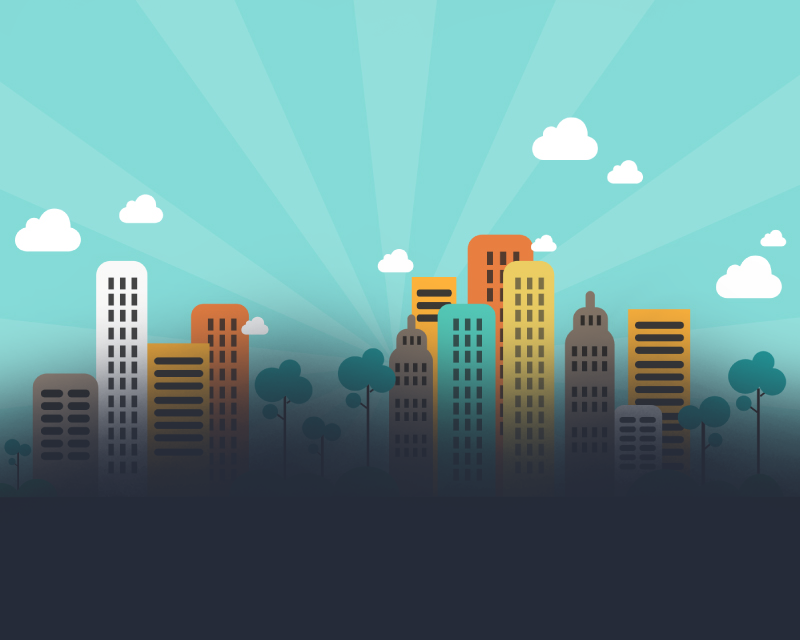
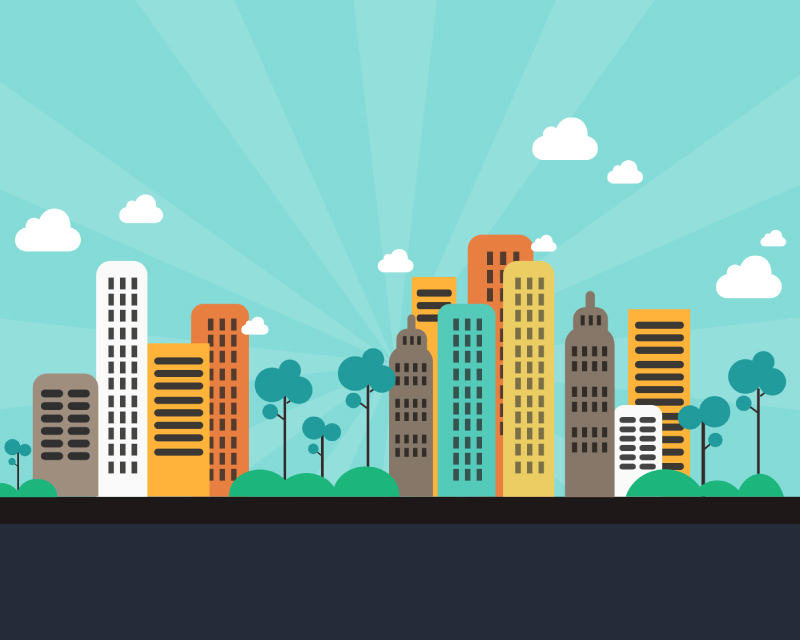
update css
부분부분 css 수정

Changed region(s): [[0.0, 0.4688, 1.0, 0.8438]]

diff --git a/ebbing/Main/Words/RegisterWords.js b/ebbing/Main/Words/RegisterWords.js
@@ -214,7 +214,7 @@ export default class RegisterWords extends React.Component {
         </View>
         <View style={styles.inputWordView}>
           <TextInput
-            style={styles.inputWord}
+            style={[styles.inputWord, styles.inputWordEng]}
             placeholder="Input English"
             onChangeText={(word_eng) => this.setState({ word_eng })}
             onKeyPress={this.inputEnter()}
@@ -222,7 +222,7 @@ export default class RegisterWords extends React.Component {
             ref={this.textInput}
           ></TextInput>
           <TextInput
-            style={styles.inputWord}
+            style={[styles.inputWord, styles.inputWordkor]}
             placeholder="Input Korean"
             onChangeText={(word_kor) => this.setState({ word_kor })}
             onKeyPress={this.inputEnter()}
@@ -269,7 +269,7 @@ export default class RegisterWords extends React.Component {
             </View>
           </View>
         ) : (
-          <View style={styles.wordListView}>
+          <View style={[styles.wordListView, styles.listBox]}>
             <Text style={[styles.wordListView, styles.noRegisteredWord]}>
               현재 등록된 단어가 없습니다.
             </Text>
@@ -318,8 +318,9 @@ const styles = StyleSheet.create({
   headerTitleText: {
     color: '#fff',
     width: standardWidth,
-    textAlign: "center",
+    textAlign: 'center',
     fontSize: 20,
+    fontWeight: 'bold',
   },
   inputWordView: {
     width: standardWidth,
@@ -333,11 +334,20 @@ const styles = StyleSheet.create({
     borderWidth: 1,
     borderStyle: 'solid',
   },
+  inputWordEng: {
+    borderTopLeftRadius: 10,
+    borderTopRightRadius: 10,
+  },
+  inputWordkor: {
+    borderBottomLeftRadius: 10,
+    borderBottomRightRadius: 10,
+  },
   registButtonView: {
     flexDirection: 'row',
     justifyContent: 'center',
     width: standardWidth,
     marginTop: 15,
+    borderRadius: 10,
   },
   registButton: {
     backgroundColor: '#fff',
@@ -345,7 +355,7 @@ const styles = StyleSheet.create({
     height: height * 0.07,
     alignItems: 'center',
     justifyContent: 'center',
-    borderRadius: 15,
+    borderRadius: 10,
     backgroundColor: '#99D7ED',
   },
   wordListView: {
@@ -355,11 +365,10 @@ const styles = StyleSheet.create({
   },
   noRegisteredWord: {
     backgroundColor: '#fff',
-    alignItems: 'center',
-    justifyContent: 'center',
-    fontSize: 30,
+    color: '#333',
+    fontSize: 20,
     textAlign: 'center',
-    textAlignVertical: 'center',
+    paddingTop: '5%',
   },
   wordListFlat: {
     backgroundColor: '#fff',
@@ -373,7 +382,7 @@ const styles = StyleSheet.create({
   wordListBtn: {
     flexDirection: 'row',
     backgroundColor: '#fff',
-    borderRadius: 10,
+    borderRadius: 5,
     width: standardWidth / 2 - 10,
     height: 40,
     alignItems: 'center',

diff --git a/ebbing/Main/Main.js b/ebbing/Main/Main.js
@@ -22,13 +22,13 @@ export default class Main extends React.Component {
       <View style={styles.container}>
         <Image
           style={{ width: width, height: 240, opacity: 1 }}
-          source={require('../assets/main_bg.png')}
+          source={require('../assets/main_bg2.png')}
         />
         <View style={styles.boxSpace}>
           <TouchableOpacity
             onPress={() => navigation.navigate('PriorityWords')}
           >
-            <View style={styles.categoryView}>
+            <View style={[styles.categoryView, { backgroundColor: '#8bcdcd' }]}>
               <Image
                 style={{ width: 80, height: 80 }}
                 source={require('../assets/ellipse1.png')}
@@ -37,7 +37,7 @@ export default class Main extends React.Component {
             </View>
           </TouchableOpacity>
           <TouchableOpacity onPress={() => navigation.navigate('MineWords')}>
-            <View style={styles.categoryView}>
+            <View style={[styles.categoryView, { backgroundColor: '#a3d2ca' }]}>
               <Image
                 style={{ width: 80, height: 80 }}
                 source={require('../assets/ellipse2.png')}
@@ -64,20 +64,19 @@ const styles = StyleSheet.create({
     marginVertical: 20,
     backgroundColor: '#99D7ED',
     width: width,
-    height: 180,
-    justifyContent: 'space-evenly',
+    height: 160,
+    justifyContent: 'center',
     alignItems: 'center',
     flexDirection: 'row',
-    borderWidth: 0.5,
-    borderColor: '#6190E8',
     borderRadius: 15,
   },
   categoryText: {
+    marginLeft: '5%',
     fontSize: 20,
     color: '#fff',
   },
   boxSpace: {
-    justifyContent: 'space-evenly',
+    justifyContent: 'center',
     height: height * 0.65,
   },
 });

diff --git a/ebbing/Main/Words/MineWords.js b/ebbing/Main/Words/MineWords.js
@@ -212,7 +212,10 @@ export default class MineWords extends Component {
         ) : (
           <View style={styles.box}>
             <Text>현재 등록된 단어가 없습니다.</Text>
-            <Text><AntDesign name="pluscircleo" color={'#000'} size={15} /> 버튼을 눌러서 단어를 등록해 주세요.</Text>
+            <Text>
+              <AntDesign name="pluscircleo" color={'#000'} size={15} /> 버튼을
+              눌러서 단어를 등록해 주세요.
+            </Text>
             <Text></Text>
           </View>
         )}
@@ -250,10 +253,13 @@ const styles = StyleSheet.create({
     color: '#fff',
     marginTop: 40,
     margin: 20,
+    fontWeight: 'bold',
   },
   Words: {
     backgroundColor: '#ffffff',
     width: standardWidth,
+    borderRadius: 10,
+    padding: '5%',
   },
   header: {
     flexDirection: 'row',
@@ -318,6 +324,8 @@ const styles = StyleSheet.create({
     backgroundColor: '#fff',
     justifyContent: 'center',
     alignItems: 'center',
+    borderRadius: 10,
+    padding: '5%',
   },
   buttonSpace: {
     justifyContent: 'space-evenly',

diff --git a/ebbing/Main/Words/PriorityWords.js b/ebbing/Main/Words/PriorityWords.js
@@ -214,7 +214,7 @@ export default class PriorityWords extends Component {
   }
 }
 const { height, width } = Dimensions.get('window');
-const standardWidth = width*0.85;
+const standardWidth = width * 0.85;
 const styles = StyleSheet.create({
   container: {
     flex: 1,
@@ -225,11 +225,14 @@ const styles = StyleSheet.create({
   Words: {
     backgroundColor: '#ffffff',
     width: standardWidth,
+    borderRadius: 10,
+    padding: '5%',
   },
   tilteFont: {
     fontSize: 20,
     color: '#fff',
-    marginTop: 40,    
+    fontWeight: 'bold',
+    marginTop: 40,
     margin: 30,
   },
   header: {
@@ -291,6 +294,8 @@ const styles = StyleSheet.create({
     backgroundColor: '#fff',
     justifyContent: 'center',
     alignItems: 'center',
+    borderRadius: 10,
+    padding: '5%',
   },
   buttonSpace: {
     justifyContent: 'space-evenly',

diff --git a/ebbing/Main/Words/MineWordsFilter.js b/ebbing/Main/Words/MineWordsFilter.js
@@ -184,7 +184,7 @@ export default class MineWordsFilter extends Component {
   }
 }
 const { height, width } = Dimensions.get('window');
-const standardWidth = width*0.85;
+const standardWidth = width * 0.85;
 const styles = StyleSheet.create({
   container: {
     flex: 1,
@@ -195,12 +195,15 @@ const styles = StyleSheet.create({
   tilteFont: {
     fontSize: 20,
     color: '#fff',
-    marginTop: 40,    
+    marginTop: 40,
     margin: 20,
+    fontWeight: 'bold',
   },
   Words: {
     backgroundColor: '#ffffff',
     width: standardWidth,
+    borderRadius: 10,
+    padding: '5%',
   },
   header: {
     flexDirection: 'row',
@@ -266,5 +269,7 @@ const styles = StyleSheet.create({
     backgroundColor: '#fff',
     justifyContent: 'center',
     alignItems: 'center',
+    borderRadius: 10,
+    padding: '5%',
   },
 });

diff --git a/ebbing/Main/Words/PriorityWordsFilter.js b/ebbing/Main/Words/PriorityWordsFilter.js
@@ -183,7 +183,7 @@ export default class PriorityWords extends Component {
   }
 }
 const { height, width } = Dimensions.get('window');
-const standardWidth = width*0.85;
+const standardWidth = width * 0.85;
 const styles = StyleSheet.create({
   container: {
     flex: 1,
@@ -194,12 +194,15 @@ const styles = StyleSheet.create({
   Words: {
     backgroundColor: '#ffffff',
     width: standardWidth,
+    borderRadius: 10,
+    padding: '5%',
   },
   tilteFont: {
     fontSize: 20,
     color: '#fff',
-    marginTop: 40,    
+    marginTop: 40,
     margin: 20,
+    fontWeight: 'bold',
   },
   header: {
     flexDirection: 'row',
@@ -261,5 +264,7 @@ const styles = StyleSheet.create({
     backgroundColor: '#fff',
     justifyContent: 'center',
     alignItems: 'center',
+    borderRadius: 10,
+    padding: '5%',
   },
 });

diff --git a/ebbing/MyPage.js b/ebbing/MyPage.js
@@ -151,7 +151,7 @@ const styles = StyleSheet.create({
   },
   myPageBoxInner: {
     width: myPageBoxWith - 40,
-    height: height - 700,
+    height: height - 650,
     width: width - 250,
     flexBasis: '40%',
     alignItems: 'center',
